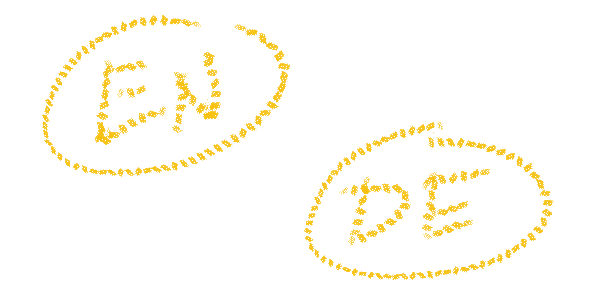
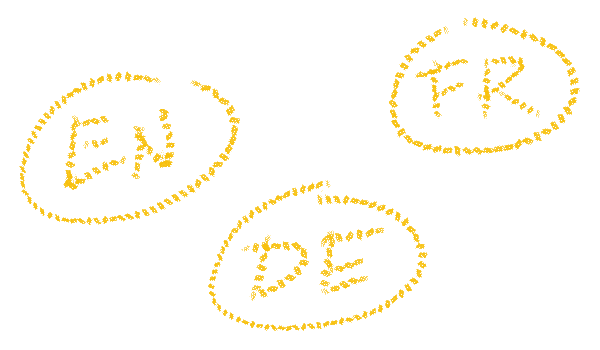
update localize deko

diff --git a/homepage/theme/static/css/fix.css b/homepage/theme/static/css/fix.css
@@ -479,8 +479,9 @@ STACKING IMAGES
 	z-index : 550;
 }
 .bg-localize {
-	top: -7rem;
-	left: 3rem;
+	top: -2.2rem;
+	left: 8rem;
+	width: 220px;
 	z-index : 560;
 }
 .bg-cta-pfeil {
@@ -505,8 +506,7 @@ STACKING IMAGES
 		left: calc(100% - 30rem);
 	}
 	.bg-localize {
-		top: -7rem;
-		left: calc(100% - 25rem);
+		left: calc(100% - 22rem);
 	}
 	.bg-cta-pfeil {
 		top: -14rem;
@@ -525,8 +525,9 @@ STACKING IMAGES
 		left: calc(100% - 20rem);
 	}
 	.bg-localize {
-		top: -2rem;
-		left: 35rem;
+		top: 6rem;
+		left: 43rem;
+		width: 300px;
 	}
 	.bg-cta-pfeil {
 		top: -12rem;

diff --git a/homepage/theme/templates/index.html b/homepage/theme/templates/index.html
@@ -509,7 +509,7 @@
 
         <div class="relative">
           <div class="absolute bg-localize">
-            <img src="/theme/images/gfx-localize.png" alt="smile" width="300px" height="150px">
+            <img src="/theme/images/gfx-localize.png" alt="smile" width="300px">
           </div>
         </div>
 
